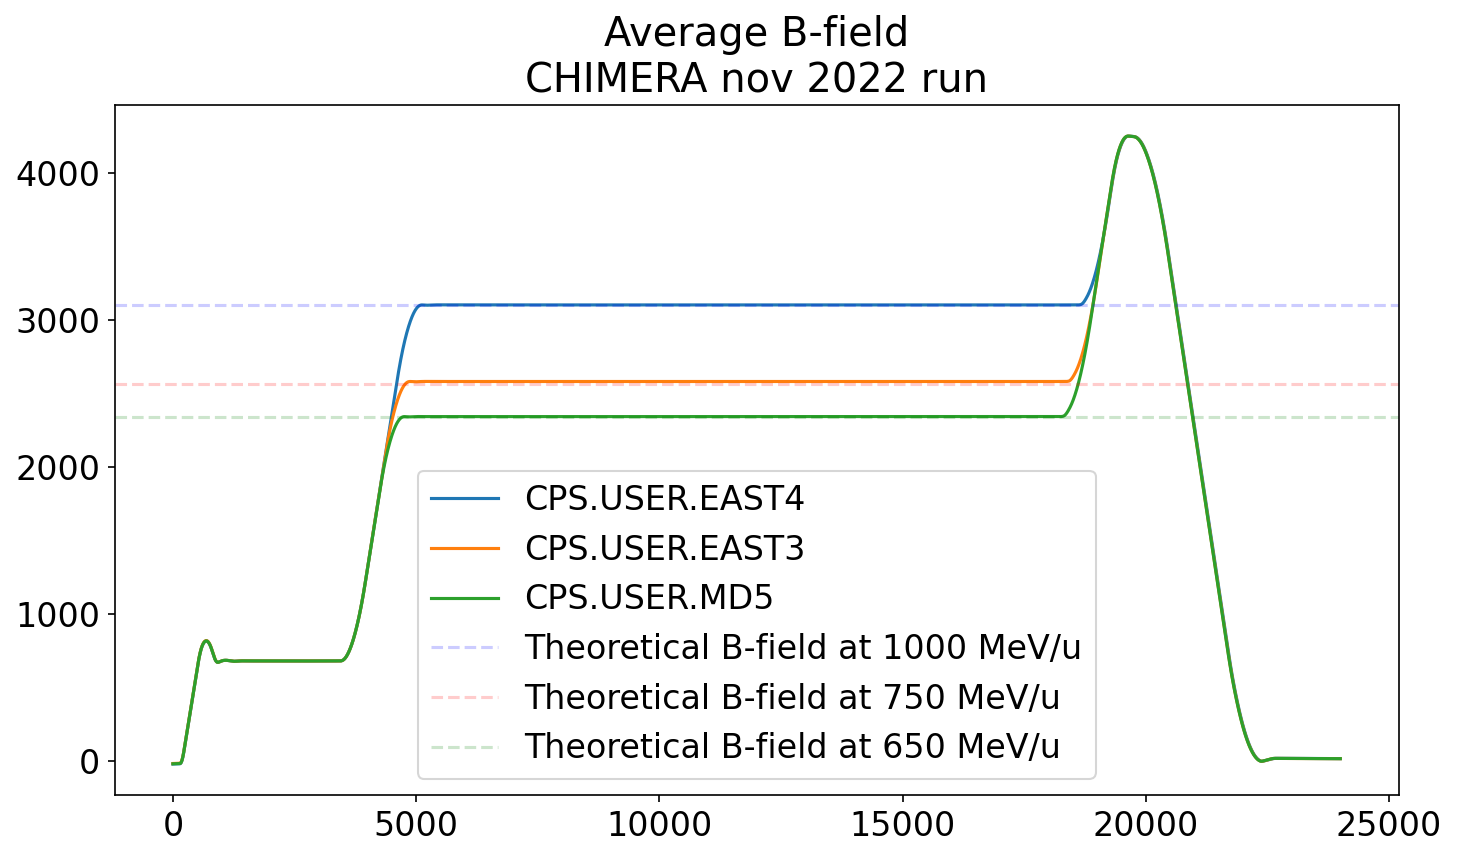
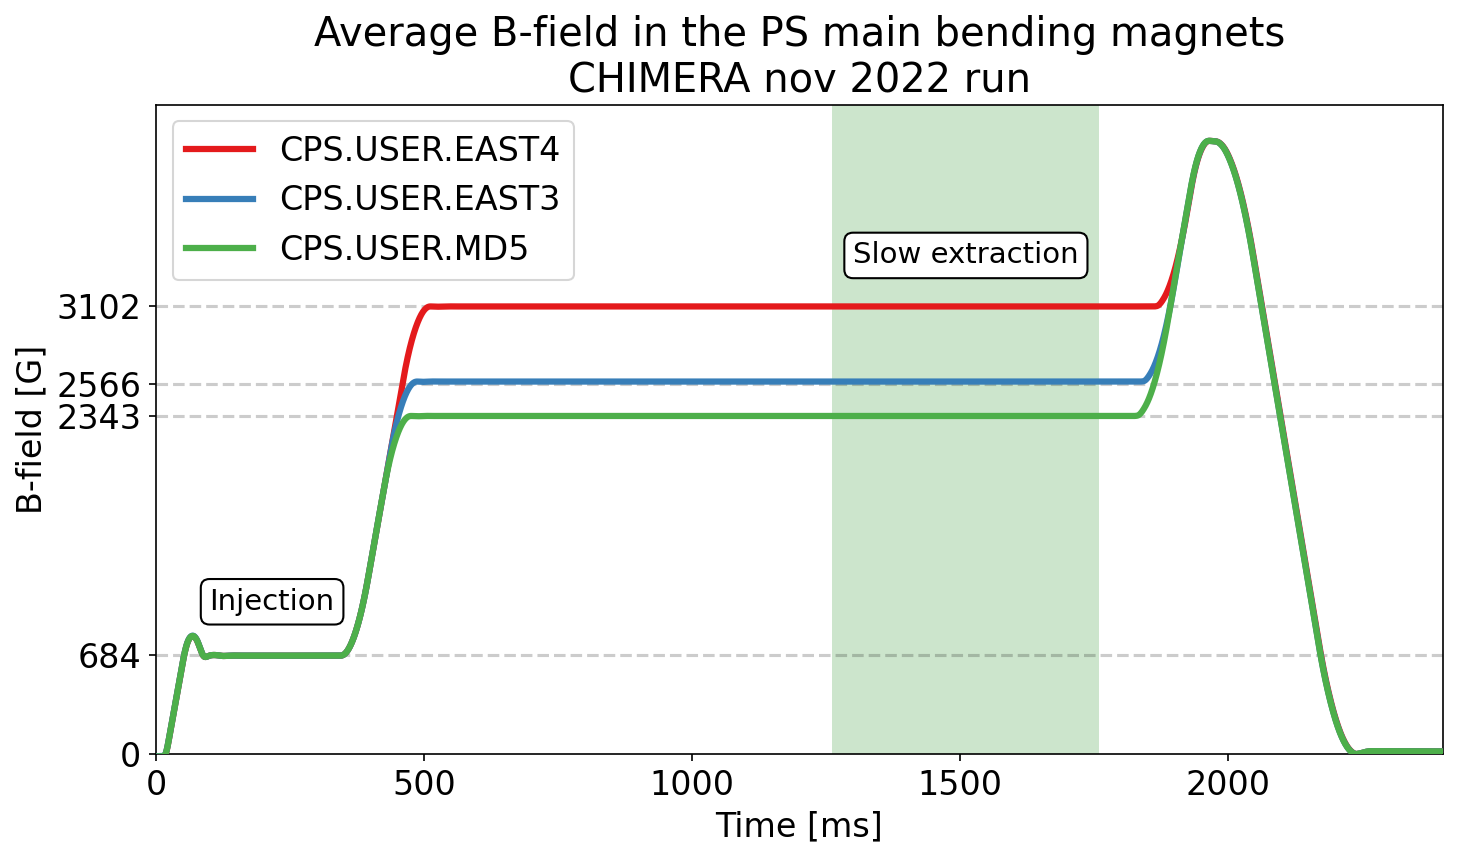
Updates from Overleaf

diff --git a/sections/PS_beam_energy.tex b/sections/PS_beam_energy.tex
@@ -1,10 +1,6 @@
-%Introduction:
+The Proton Synchrotron (PS) is part of the injector chain and is used to accelerate particles from the Proton Synchrotron Booster (PSB) to the SPS and finally to the Large Hadron Collider (LHC). For the purpose of CHIMERA, it can also be receive and accelerate heavy ions from the Low Energy Ion Ring (LEIR) and extract them to the East Area. The PS uses radio frequency (RF) cavities to accelerate charged particles, such as protons or Pb ions, to high energies and uses 100 dipoles to bend the beam around its 628 m circumference \cite{}. These particles are then extracted using slow extraction through a beam line and transported to the CHARM facility, where the CHIMERA instruments are located.
 
-%Briefly explain what an accelerator is and its importance in scientific research
-The Proton Synchrotron (PS) is part of the injector chain and is used to accelerate particles from the Proton Sychrotron Booster (PSB) to the SPS and finally to the Large Hadron Collider (LHC). For the purpose of CHIMERA, it can also be receive and accelerate heavy ions from the Low Energy Ion Ring (LEIR) and extract them to the East Area. The PS uses radio frequency (RF) cavities to accelerate charged particles, such as protons or Pb ions, to high energies and uses 100 dipoles to bend the beam around its 628 m circumference \cite{}. These particles are then extracted using slow extraction through a beam line and transported to the CHARM facility, where the CHIMERA instruments are located.
-
-%Introduce the concept of beam energy and its significance in the operation of an accelerator
-The beam energy refers to the kinetic energy per nucleon $E_{kin}$ of the charged particles beam. The relationship for an ion beam is $E_{kin, TOT}=E_{kin}\cdot A$, where A is the atomic mass number (A = Z + N, the number of protons Z and neutrons N). The total momentum for an ion beam is \cite{chao_handbook_2013}
+The beam energy refers to the kinetic energy per nucleon $E_{kin}$ of the charged particle beam. The relationship for an ion beam is $E_{kin, TOT}=E_{kin}\cdot A$, where A is the atomic mass number (A = Z + N, the number of protons Z and neutrons N). The total momentum for an ion beam is \cite{chao_handbook_2013}
 
 $$pc={E_{0}\sqrt{\gamma^{2}-1}}$$
 
@@ -12,62 +8,69 @@ $$pc = E_{0}\sqrt{\left [ \left( \frac{E_{kin}}{E_{0}}+1\right )^{2}-1\right ]}$
 
 where, $E_{0}$ is the rest mass of the ion and $\gamma=\frac{E}{E_{0}}=\frac{E_{0}+E_{cin}}{E_{0}} = \frac{E_{cin}}{E_{0}}+1$
 
-The rigidity is defined as and will be used to calculate the magnetic field used in the bending magnets of the PS:
+The rigidity will be used to calculate the magnetic field used in the bending magnets of the PS and is defined as:
 $$B\rho = \frac{pc}{q}$$
 
-The CHIMERA beam uses a lead ion beam. During its acceleration, it is a Pb54+ ion beam of partially stripped electrons (which means that it has 54 charges and 28 $e^{-}$ remaining) of isotope A=208. As an example for a 1 GeV per nucleon, the momentum would be:
+The CHIMERA beam uses a lead ion beam. During acceleration, the beam is a Pb54+ ion beam of partially stripped electrons (which means that it has 54 charges and 28 $e^{-}$ remaining) of isotope A=208. As an example for a 1 GeV per nucleon, the momentum would be:
 
 $$pc = E_{0}\sqrt{\left [ \left( \frac{1\text{ [GeV]}\cdot 208}{E_{0}}+1\right )^{2}-1\right ]}$$
 
-where the rest mass $E_{0}$ of Pb54+ is \cite{boston_university_nuclear_nodate}:
+where the rest mass $E_{0}$ of Pb54+ is:
 
 $$E_{0} = m_{Pb54+}= 82\cdot m_{proton} + 126\cdot m_{neutron} + 28\cdot m_{e^{-}} - m_{defect} = 193.74 \frac{\text{GeV}}{\text{c}^{2}}$$
 
 with the mass defect: $m_{defect}=82\cdot m_{proton} + 126\cdot m_{neutron} + 28\cdot m_{e^{-}} - 208\cdot m_{u}$ 
 
-%$$m_{p} = 0.93828 \text{ } GeV/c^{2}$$
-%$$m_{n} = 0.93957 \text{ } GeV/c^{2}$$
-%$$m_{e^{-}} = 0.000511 \text{ } GeV/c^{2}$$
-%$$m_{u} = 0.9315 \text{ } GeV/c^{2}$$
-
+\begin{table}[h!]
+\centering
+\begin{tabular}{lr}
+\toprule
+Particle & mass GeV/$\text{c}^{2}$\\
+\midrule
+$m_{proton}$ & 0.93828      \\
+$m_{neutron}$ & 0.93957      \\
+$m_{e^{-}}$ & 0.000511 \\
+$m_{u}$ & 0.9315       \\
+\bottomrule
+\end{tabular}
+\caption{Rest masses \cite{boston_university_nuclear_nodate}.}
+\label{table:masses}
+\end{table}
 
 The conversion of beam momentum to rigidity in Tesla meter is done with: 
 $$B\rho \text{ [T m]} = 3.3356\cdot p \text{ [GeV/c]}$$
 where for the PS, $\rho = 70.0789$ m.
 
-For the ESA run we selected three energies and calculated the magnetic field (B-field) to which the ions will be accelerated to, see Fig. \ref{fig:lookup table}.
+For the ESA run, three energies were selected: 1000, 750 and 650 MeV/nucleon. The associated magnetic field (B-field) required to which the ions will be accelerated to were calculated, see Fig. \ref{fig:lookup table} and Table \ref{table:KE_table}. Two different momentas are needed for acceleration and transport respectively as the ion beam is partially stripped in the PS and become fully stripped after the exit vaccum windows in the F61 transfer line located after the first quadrupole Q74L. The magnets in the transfer line must be pulsed with a rigidity associated to the newly fully stripped ion beam. Extensive work as been done to scale the magnets in F61 and the T8 transfer line. A makerule is used to calculate the correct strength to apply according to the PS B-field (and thus beam energy). The makerule calculate a partially stripped momenta for the first quadrupole in F61 and a second momenta for a fully stripped ion beam for the rest of the transfer line down to CHARM. This automatic scaling is extremely useful as energy scans can be done by simply changing the Bfield at flattop of the PS. Some limitations are that the extraction path and the SMH57 and SMH61 sometimes need small manual corrections and the bending to the East dump do not have a makerule associated yet (only current can be chosen).
 
 \begin{figure}[!htb]
 \centering
-\includegraphics[width=1.0\textwidth]{images/kinetic_energy_lookup_table_zoom_B_field.png}
-\caption{Lead ion beam lookup table}
+\includegraphics[width=1.0\textwidth]{images/kinetic_energy_lookup_chimera.png}
+\caption{Lead ion beam lookup table. In addition, measurement to the East dump with an energy scan is shown.}
 \label{fig:lookup table}
 \end{figure}
 
-Figure \ref{fig:bfield} shows the shape of the magnetic field in the main dipoles of the PS produced by the Power system for the PS main magnet (POPS). There are two main regions, the injection plateau and the flat-top extraction plateau. The spike at the end to circumvent some limitation of POPS should be disregarded as the extraction is done prior to this event.
+Figure \ref{fig:bfield} shows the shape of the magnetic field in the main dipoles of the PS produced by the Power system for the PS main magnet (POPS). There are two main regions, the injection plateau and the flat-top extraction plateau. The spike at the end to circumvent some limitation of POPS should be disregarded, as the extraction is done prior to this event.
 
 \begin{figure}[!htb]
 \centering
-\includegraphics[width=0.6\textwidth]{images/average_b_field_chimera.png}
+\includegraphics[width=0.8\textwidth]{images/average_b_field_chimera.png}
 \caption{CHIMERA B-field for different energies. There are two plateaus: the injection plateau at 684 G and then extraction plateaus at different B-field corresponding to different energies.}
 \label{fig:bfield}
 \end{figure}
 
 \begin{table}[h!]
 \centering
-\begin{tabular}{rrrr}
+\begin{tabular}{rrrrl}
 \toprule
- $E_{kin}$ [MeV/nucleon] &  $\frac{pc}{54}$ [GeV] &  $\frac{pc}{82}$ [GeV] &  PS B-field [G] \\
+ $E_{kin}$ [MeV/nucleon] &  $\frac{pc}{54}$ [GeV] &  $\frac{pc}{82}$ [GeV] &  PS B-field [G] & User mapping\\
 \midrule
-  1000 &                        6.517 &                    4.292 &        3102 \\
-   750 &                        5.392 &                    3.551 &        2566 \\
-   650 &                        4.923 &                    3.242 &        2343 \\
-    72 &                        1.438 &                    0.947 &         684 \\
+  1000 &                        6.517 &                    4.292 &        3102 & CPS.USER.EAST4 \\
+   750 &                        5.392 &                    3.551 &        2566 & CPS.USER.EAST3 \\
+   650 &                        4.923 &                    3.242 &        2343 &   CPS.USER.MD4 \\
 \bottomrule
-%\caption{Lead ion beam lookup table}
-\label{fig:lookup table}
 \end{tabular}
-\caption{Kinetic energy table.}
+\caption{Kinetic energy used during the ESA november 2022 run. The momentum/charge for a partially stripped and fully stripped ion beam is shown.}
 \label{table:KE_table}
 \end{table}
 
@@ -78,21 +81,36 @@ Figure \ref{fig:bfield} shows the shape of the magnetic field in the main dipole
 \label{fig:timestamp_energies}
 \end{figure}
 
-\subsubsection{Energy scan}
+For development purposes and after the ESA run, an automatic script was used to ramp the beam energy. The lowest beam energy seen on the East Dump was 283 MeV/nucleon and lower energies could be tried out in the future. The main limitation during this run was that the bending magnet to the dump is not scaled with momentum and hand corrections were needed to propagate the beam to the dump as well as the beam spot on the BTV at this energy was large and weak which made observation difficult.
 
-For development purposes and after the ESA run, we ramped the beam energy using an automatic script.
+
+\begin{figure}
+    \centering
+    \begin{minipage}{0.45\textwidth}
+        \centering
+        \includegraphics[width=1.0\textwidth]{images/energy_scan_chimera 1.png}
+        \caption{Energy scan}
+        \label{fig:energy_scan}
+    \end{minipage}\hfill
+    \begin{minipage}{0.45\textwidth}
+        \centering
+        \includegraphics[width=1.0\textwidth]{images/energy_scan_timestamp_chimera 1.png} 
+        \caption{Energy scan with timestamp}
+        \label{fig:energy_scan_timestamp}
+    \end{minipage}
+\end{figure}
+
+\subsection{Slow extraction}
+
+The ion slow extraction scheme uses the magnetic septums SMH57 and SMH61 to extract the beam to the east area. As opposed to a proton slow extraction, for CHIMERA we bypasses the electrostatic septum SEH23 as its entry and exit windows would strip the ions from the remaining electrons which would change the rigidity during extraction, see Fig. \ref{fig:sx}.
 
 \begin{figure}[!htb]
 \centering
-\includegraphics[width=0.6\textwidth]{images/energy_scan_chimera 1.png}
-\caption{Energy scan}
-\label{fig:energy_scan}
+\includegraphics[width=0.4\textwidth]{images/SX_CHIMERA.jpg}
+\caption{Slow extraction scheme for CHIMERA}
+\label{fig:sx}
 \end{figure}
 
+The amplitude growth needed to jump the septum is done with slow extraction. Iteration on the scheme have been made, starting with a ramp on the low energy quadrupoles LEQ to increase to tune to the third integer resonant tune and converging on Radiofrequency knock out (RFKO) for a better control of the beam intensity at different energies (see section \ref{beam_intensity}).
 
-\begin{figure}[!htb]
-\centering
-\includegraphics[width=0.6\textwidth]{images/energy_scan_timestamp_chimera 1.png}
-\caption{Energy scan with timestamp}
-\label{fig:energy_scan_timestamp}
-\end{figure}
+For RFKO, the setup was to bring the tune of the beam close to the resonance (with the radial loop GRPOS as increase the tune with the LEQ would also change the tune but change the optics) and back off slightly in tune so that the Transverse Feedback Blowup (TFB) is used to push particles into resonance. Once we are close to the tune we turn of the radial loop and debunch the beam. The machine is static (nothing ramping). We chirp using the Q-meter. A low frequency, the chirps is visible in the spill but for faster chirping at 1ms the frequency is the spill is suppressed by the transit time.

diff --git a/sections/Beam_intensity.tex b/sections/Beam_intensity.tex
@@ -1,5 +1,30 @@
-The slow extraction of the beam is controlled via the RF-Knock out (RFKO) technique. This allows a precise and reproducible intensity control spill per spill.
+The slow extraction of the beam is controlled via the RF-Knock out (RFKO) technique. This allows a precise and reproducible intensity control spill by spill.
+
+An RFKO extraction process involves using a transverse beam disturbance with a noise signal whose frequency changes over time (frequency modulation (FM)). This change in frequency is necessary to affect all particles. We do a sweep - or chirp - in frequency. 
+
+With the noise from the chirp, the particles are diffused from the beam core to the stable triangle.
 
 \begin{figure}[h]
 \includegraphics[width=0.9\textwidth]{images/xsec70_intensity_vs_gain.png}
+\end{figure}
+
+The RFKO has different parameters to control the extraction:
+- Chirp gain: the voltage applied to the RFKO plates.
+- Chirp frequency range
+- Accuracy (number of turns in the PS)
+- Bounds: Start and stop of the chirping
+
+Lowest chirps is 512 turns
+Time it takes for one turn in the PS = **2.1 $\mu s$**
+* $t = \frac{circumference}{c} = \frac{628}{3e8} = 2.1e-6 [s]$
+
+5.12e2 * 2.1e-6 = 1.752e-3 s = 1.8 ms
+
+\begin{figure}[h]
+\includegraphics[width=0.4\textwidth]{images/qmeter.png}
+\end{figure}
+
+\begin{figure}[h]
+\centering
+\includegraphics[width=0.4\textwidth]{images/RFKO.jpg}
 \end{figure}

diff --git a/main.tex b/main.tex
@@ -62,7 +62,7 @@
 % The nice colour showing which energy was used during each moment of the test
 \input{sections/PS_beam_energy.tex}
 
-\subsection{Beam intensity} % Eliott, Kacper
+\subsection{Beam intensity} \label{beam_intensity} % Eliott, Kacper
 % RFKO and gain settings throughout the test
 % Intensity measurements on SEC and XION, including intensity vs. gain
 \input{sections/Beam_intensity.tex}

diff --git a/sections/Introduction.tex b/sections/Introduction.tex
@@ -1,0 +1,6 @@
+\begin{figure}[!htb]
+\centering
+\includegraphics[width=1.0\textwidth]{images/CCC_eastt8_small.png}
+\caption{The CERN accelerator complex. The lead ion beam used by CHIMERA is highlighted in color.}
+\label{fig:CCC}
+\end{figure}
